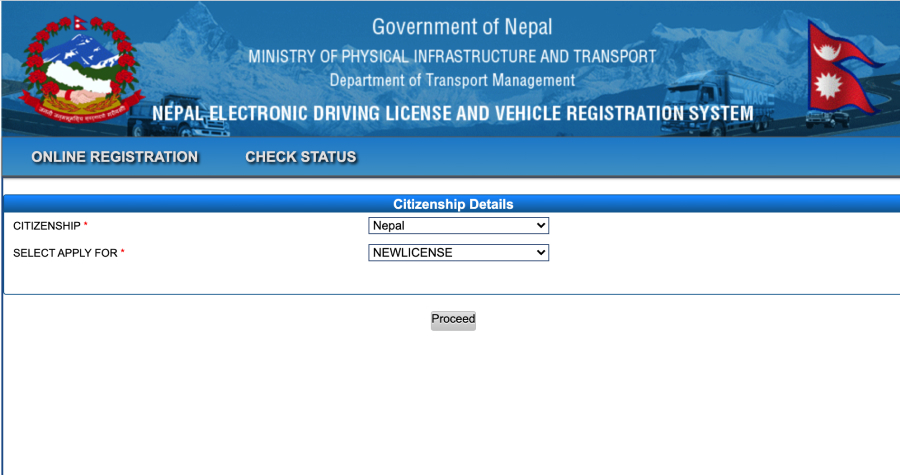
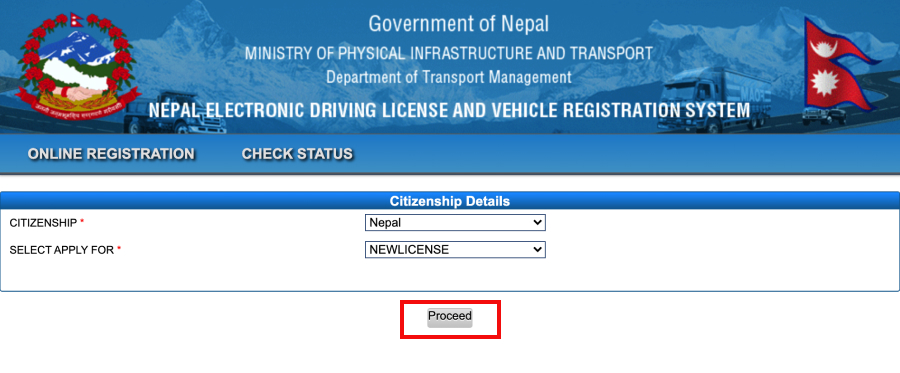
complete registration design

diff --git a/registration.html b/registration.html
@@ -55,7 +55,10 @@
 
     .dotm-image {
       margin-top: 10px;
-      border: 1px solid #146FCD;
+    }
+
+    .red {
+      color: #F30C0C;
     }
   </style>
 </head>
@@ -107,19 +110,17 @@
 
     <div class="dotm-section">
       <h2 class="dotm-title">८. स्थायी ठेगाना (PERMANENT ADDRESS) भर्नुहोस्।</h2>
-      <div class="dotm-image">
-        <img src="./images/homepage.jpg" alt="homepage">
-      </div>
     </div>
 
     <div class="dotm-section">
       <h2 class="dotm-title">९. यदि स्थायी र अस्थायी ठेगाना एकैभए SAME AS PERMANENT मा Check गर्नुहोस।</h2>
+      <div class="dotm-image">
+        <img src="./images/6.Registration-address.jpg" alt="homepage">
+      </div>
     </div>
+
     <div class="dotm-section">
       <h2 class="dotm-title">१०. आफुले दरखास्त दिन लागेको वर्ग छान्नुहोस।</h2>
-      <div class="dotm-image">
-        <img src="./images/homepage.jpg" alt="homepage">
-      </div>
     </div>
 
     <div class="dotm-section">
@@ -135,28 +136,31 @@
     </div>
 
     <div class="dotm-section">
-      <h2 class="dotm-title">१४. याद राख्नहुोस Asterisk (*) लागेका विवरण अनिबार्य भर्नुहोस्।</h2>
+      <h2 class="dotm-title">१४. याद राख्नहुोस Asterisk (<span class="red">*</span>) लागेका विवरण अनिबार्य भर्नुहोस्।</h2>
     </div>
 
     <div class="dotm-section">
       <h2 class="dotm-title">१५. सबै विवरण भरेपछि SUBMIT मा Click गर्नुहोस।</h2>
-    </div>
-
-    <div class="dotm-section">
-      <h2 class="dotm-title">१६. Are you sure you want to continue? Message आउदा OK मा Click गर्नुहोस।</h2>
       <div class="dotm-image">
-        <img src="./images/homepage.jpg" alt="homepage">
+        <img src="./images/7.Registration-submit.jpg" alt="homepage">
       </div>
     </div>
 
     <div class="dotm-section">
+      <h2 class="dotm-title">१६. Are you sure you want to continue? Message आउदा OK मा Click गर्नुहोस।</h2>
+    </div>
+
+    <div class="dotm-section">
       <h2 class="dotm-title">१७. आफूले भरेको विवरण पुन एकपटक Check गरी फरक परे EDIT DETAILS मा Click गरी सच्याउनहुोस।</h2>
+      <div class="dotm-image">
+        <img src="./images/9.Registration-editdetails.jpg" alt="homepage">
+      </div>
     </div>
 
     <div class="dotm-section">
       <h2 class="dotm-title">१८. विवरण ठीक भए Save Details मा Click गनहुोस।</h2>
       <div class="dotm-image">
-        <img src="./images/homepage.jpg" alt="homepage">
+        <img src="./images/8.Registration-savedetails.jpg" alt="homepage">
       </div>
     </div>
 
@@ -175,7 +179,7 @@
     <div class="dotm-section">
       <h2 class="dotm-title">२२. PRINT मा Click गनुहोस।</h2>
       <div class="dotm-image">
-        <img src="./images/homepage.jpg" alt="homepage">
+        <img src="./images/10.Registration-confirm.jpg" alt="homepage">
       </div>
     </div>
 
